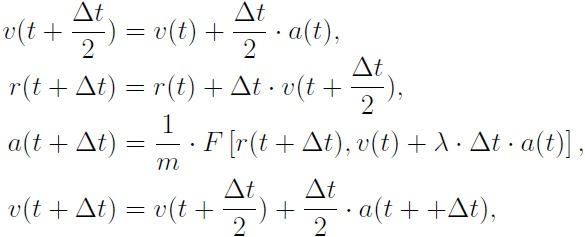
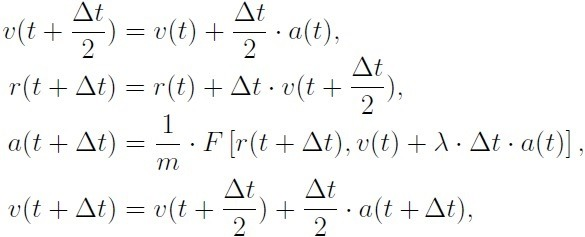
tweak an eq in USER-MESO, also allow neigh to be built w/out styles

Changed region(s): [[0.7077, 0.827, 0.8615, 0.9451], [0.3077, 0.1181, 0.3385, 0.1477]]

diff --git a/src/neighbor.cpp b/src/neighbor.cpp
@@ -22,6 +22,10 @@
 #include "neighbor.h"
 #include "neigh_list.h"
 #include "neigh_request.h"
+#include "nbin.h"
+#include "nstencil.h"
+#include "npair.h"
+#include "ntopo.h"
 #include "style_nbin.h"
 #include "style_nstencil.h"
 #include "style_npair.h"

diff --git a/doc/src/Eqs/fix_mvv_dpd.tex b/doc/src/Eqs/fix_mvv_dpd.tex
@@ -15,7 +15,7 @@ $$
 $$
 
 $$
-  v(t+\Delta t) = v(t+\frac{\Delta t}{2}) + \frac{\Delta t}{2}\cdot a(t++\Delta t),
+  v(t+\Delta t) = v(t+\frac{\Delta t}{2}) + \frac{\Delta t}{2}\cdot a(t+\Delta t)
 $$
 
 \end{document}
